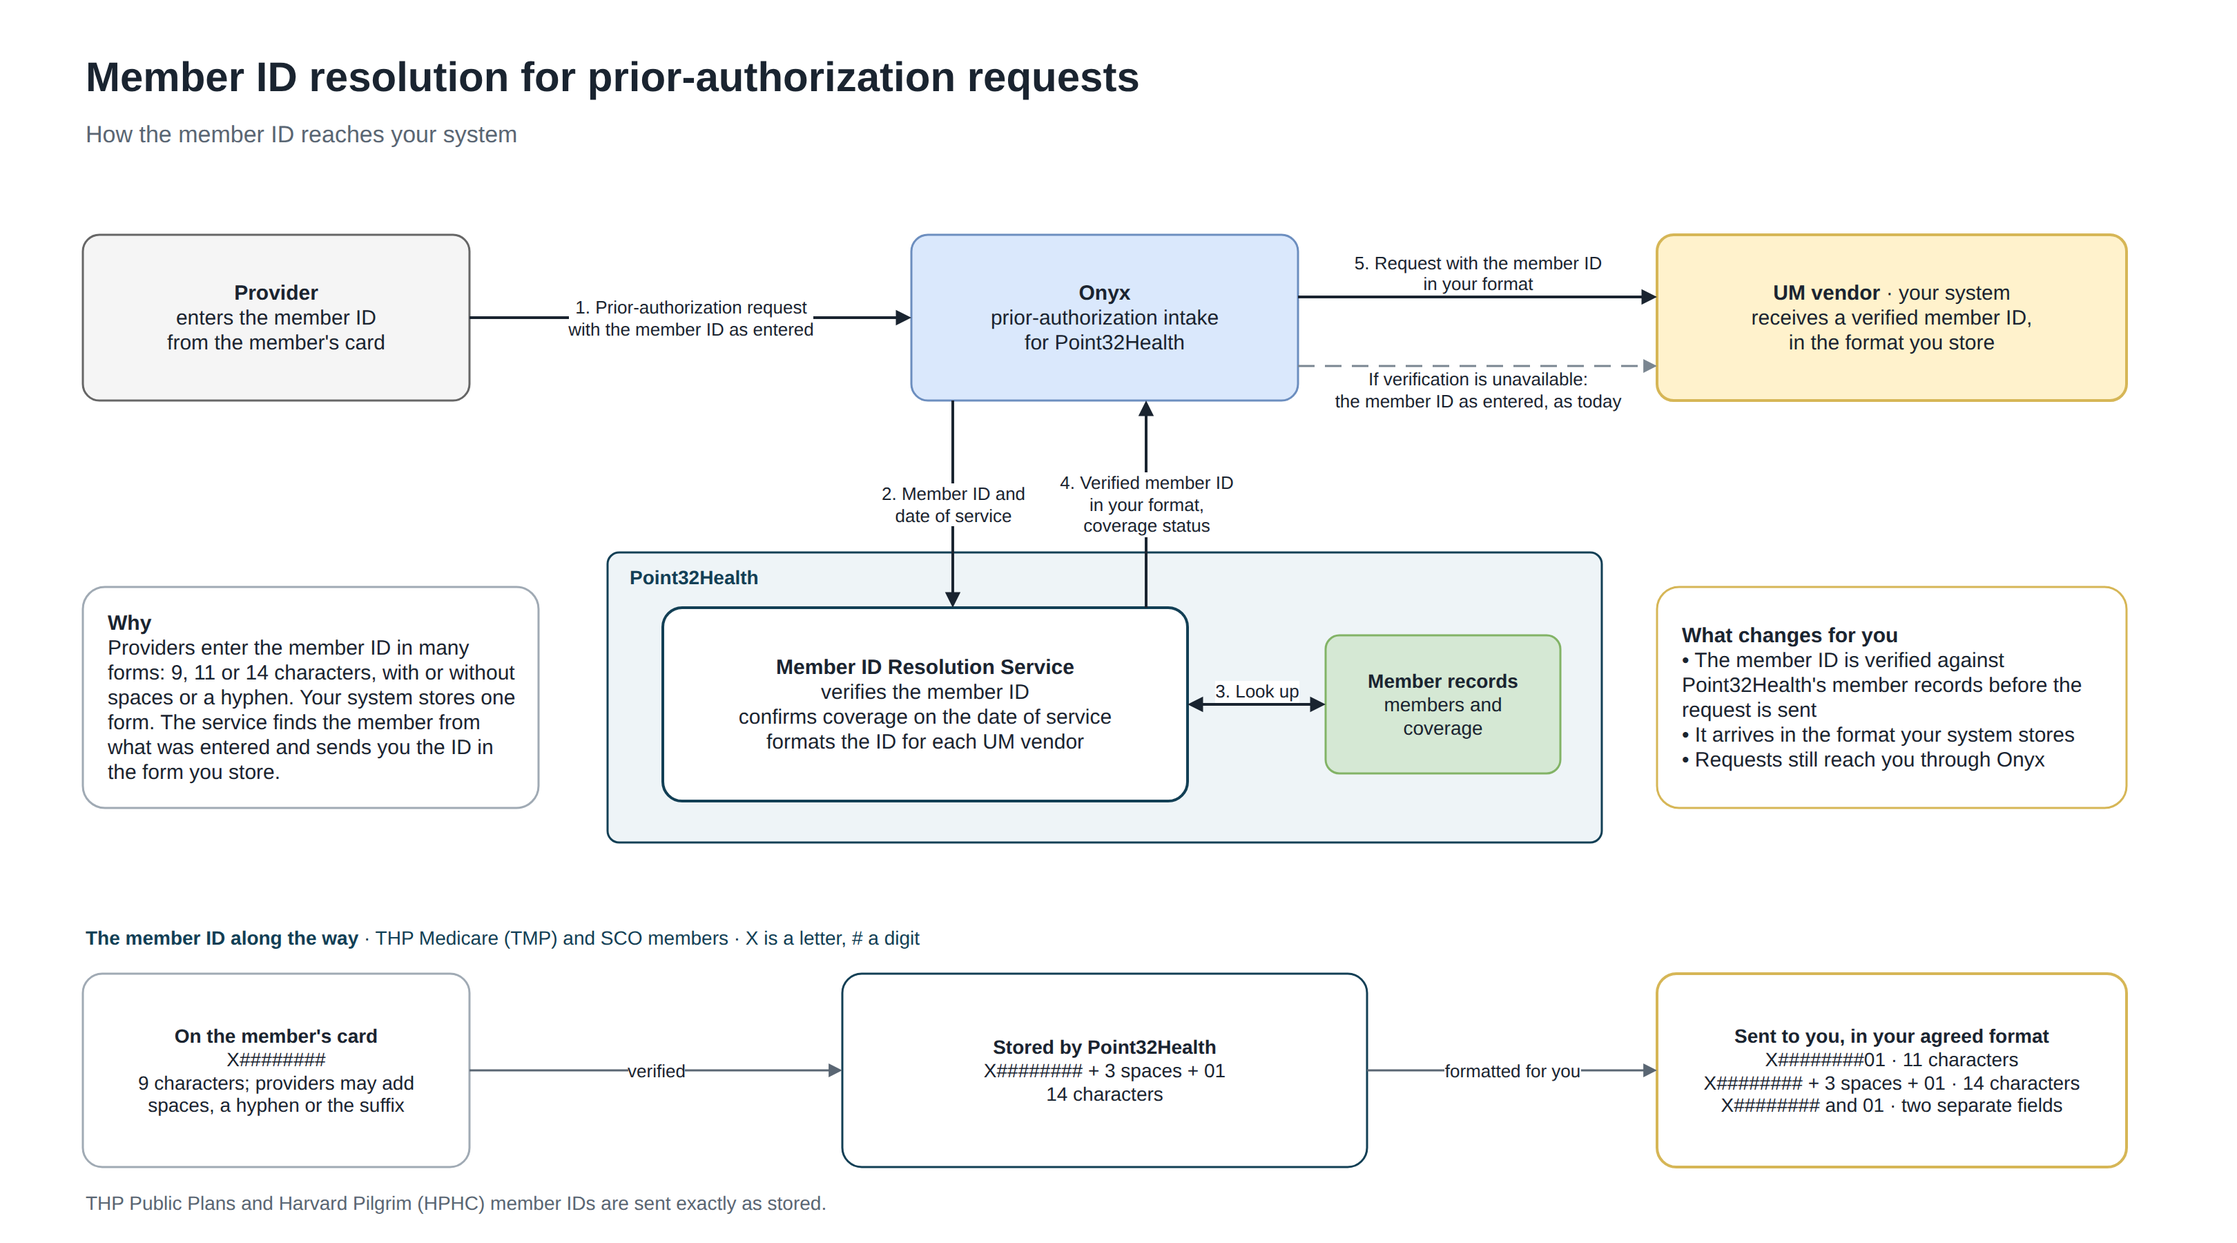
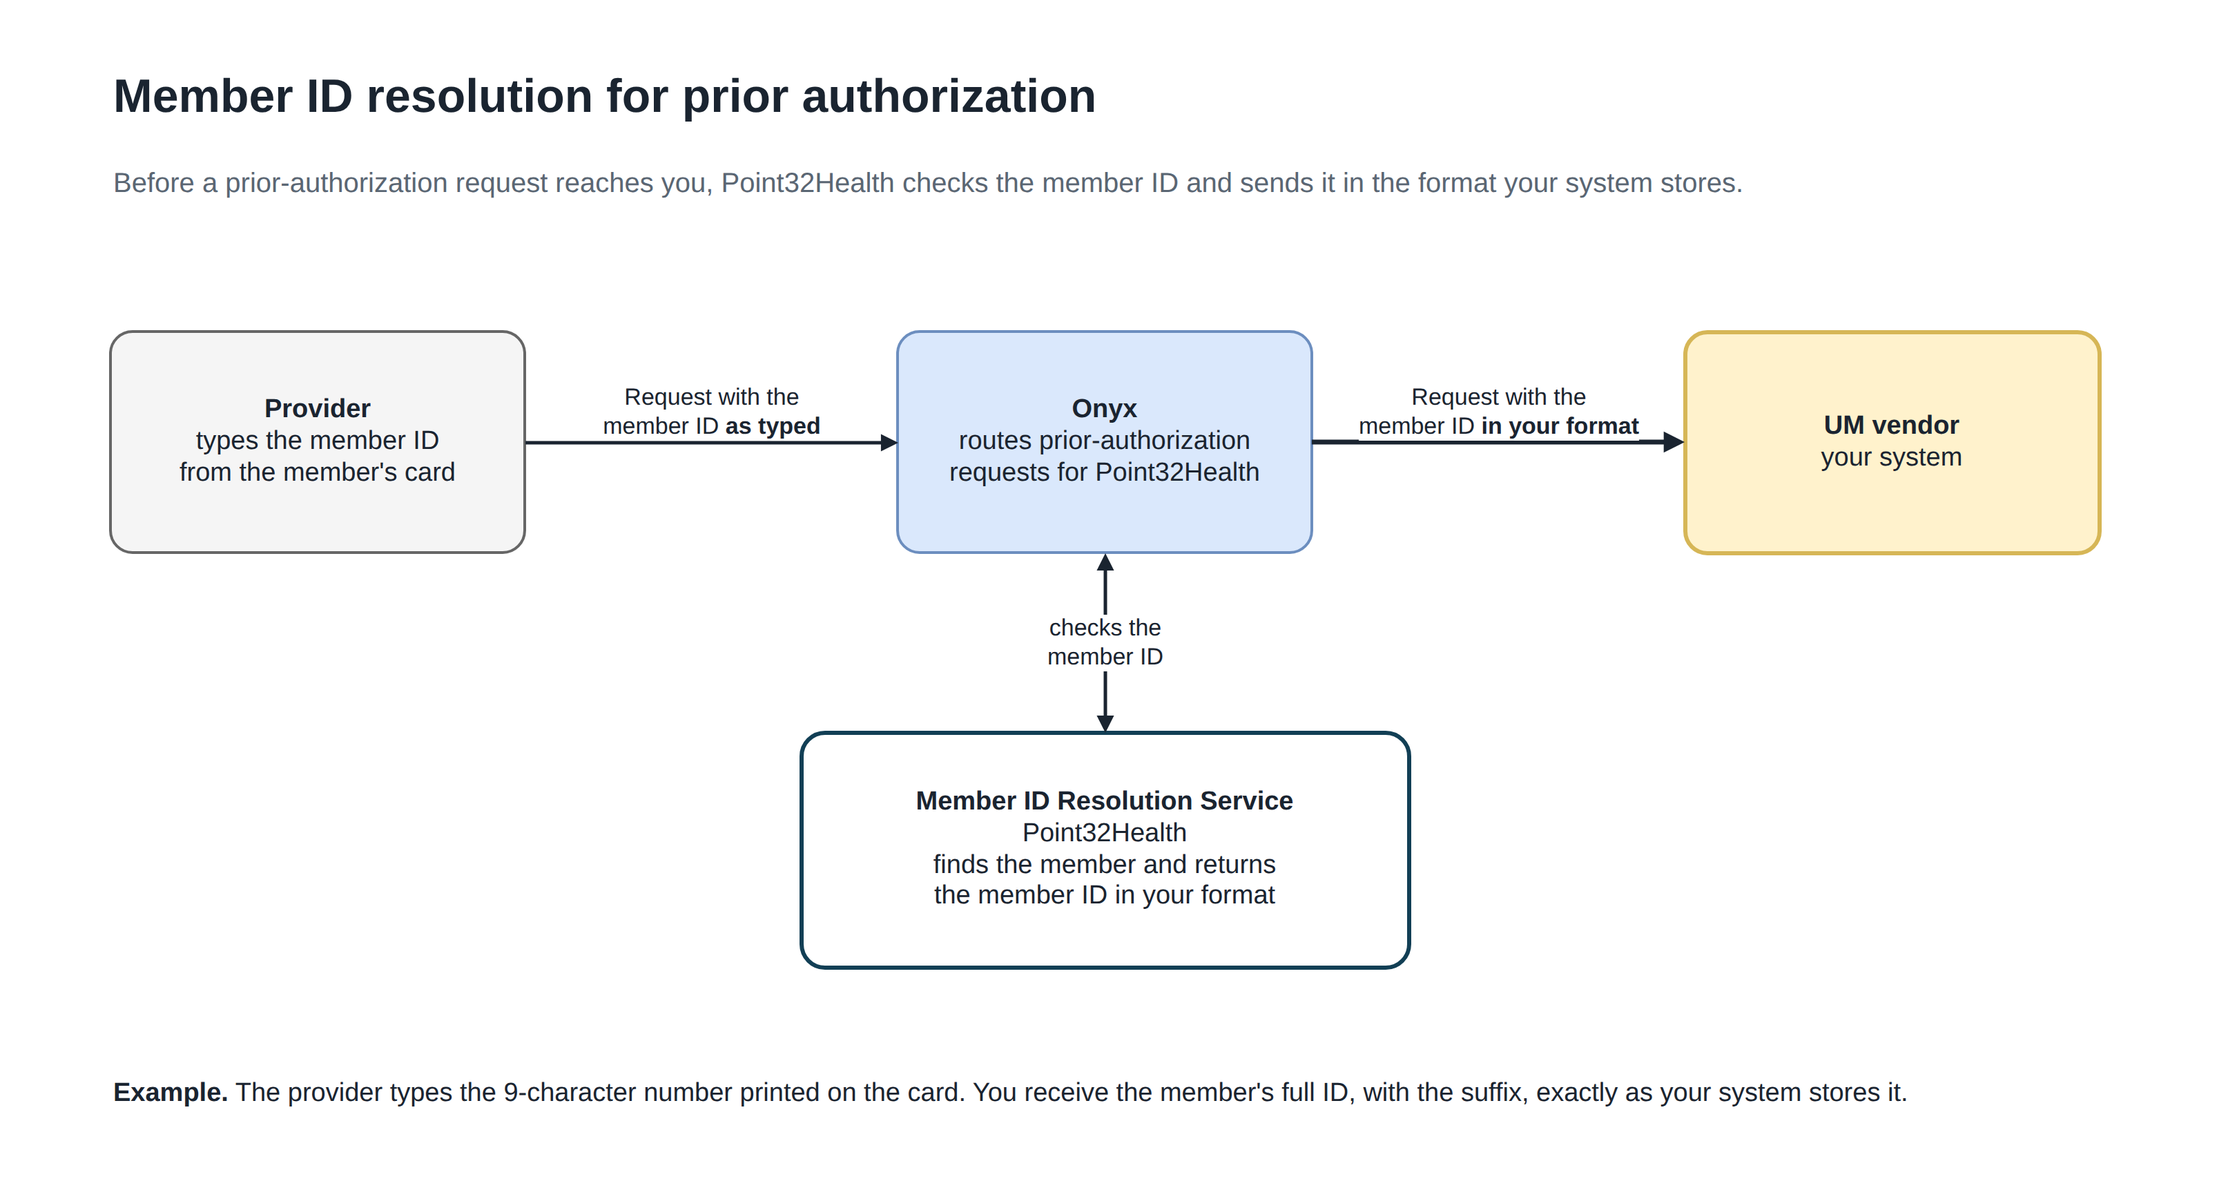
member-id-resolution-service: the vendor diagram says one thing (owner feedback 19)
One message, as the subtitle: before a prior-authorization request reaches
the vendor, Point32Health checks the member ID and sends it in the format
the vendor's system stores. Four boxes, three arrows (as typed, checks the
member ID, in your format) and one example sentence. Step numbers,
callouts, coverage status, the member records box, the masked ID strip,
the fallback line and the footnote are gone; the generator now also
refuses ID patterns. Handover, feedback log and design-src notes updated.

Claude-Session: https://claude.ai/code/session_011hPrA35BFc9RS76eDxCyUo

diff --git a/docs/member-id-resolution-service/design-src/high_level_drawio.py b/docs/member-id-resolution-service/design-src/high_level_drawio.py
@@ -1,18 +1,18 @@
 #!/usr/bin/env python3
-"""Writes ../member-id-resolution-service-high-level.drawio: the one-page diagram to present to UM vendors.
+"""Writes ../member-id-resolution-service-high-level.drawio: the one-slide diagram to present to UM vendors.
 
-Audience: a UM vendor. It shows the business flow only: the provider, Onyx, the Member ID Resolution Service,
-Point32Health's member records, the vendor, and how the member ID changes along the way. No technical detail
-(ports, versions, endpoints, codes, infrastructure), no internal system names, and no other vendor's name, so the
-same file serves every vendor. Member IDs appear only masked (X = letter, # = digit).
+One message, in plain words (owner feedback 18 and 19): before a prior-authorization request reaches the vendor,
+Point32Health checks the member ID, so the vendor receives it in the format its system stores. Four boxes, three
+arrows, one example sentence. No technical detail, no internal system names, no other vendor's name, no codes or
+ID patterns.
 
 The output is plain, uncompressed draw.io XML, which Lucidchart imports (File > Import > draw.io) as well as
-draw.io / diagrams.net. To keep that import clean, every cell sits on the default layer with absolute coordinates
-(no groups, no nested containers) and only basic shapes are used.
+draw.io / diagrams.net. Every cell sits on the default layer with absolute coordinates and only basic shapes are
+used, so the import stays clean.
 
 Run:  python3 high_level_drawio.py
-It refuses to write the file if two boxes overlap by mistake, if an id-shaped value slipped in, or if a label
-carries a word that must not reach a vendor (an internal system name, a technical detail, another vendor's name).
+It refuses to write the file if two boxes overlap, if an id-shaped value or an ID pattern slipped in, or if a label
+carries a word not meant for a vendor (an internal system name, a technical term, another vendor's name).
 """
 import os
 import re
@@ -24,17 +24,16 @@ OUT = os.path.normpath(os.path.join(HERE, '..', 'member-id-resolution-service-hi
 INK, MUTED, NAVY = '#1A2430', '#5A6673', '#123F55'
 FONT = 'fontFamily=Helvetica;'
 NOT_FOR_VENDORS = re.compile(r'\b(MMI|Master Member|Azure|API Management|APIM|Spring|Java|port|9090|yaml|REST|HTTP|'
-                             r'POST|JSON|traceId|stub|timeouts?|eviCore|Evolent|Carelon|MHK|MedHOK|Optum|fqa|pqa|prod)\b',
-                             re.IGNORECASE)
+                             r'POST|JSON|traceId|stub|timeouts?|eviCore|Evolent|Carelon|MHK|MedHOK|Optum|fqa|pqa|prod)\b'
+                             r'|#', re.IGNORECASE)
 
-cells = []      # in drawing order: earlier cells sit behind later ones
-geo = {}        # vertex id -> (x, y, w, h)
-CONTAINERS = {'p32'}
+cells = []
+geo = {}
 
 
 def box(fill, stroke, extra=''):
-    return ('rounded=1;whiteSpace=wrap;html=1;arcSize=10;' + FONT + 'fontSize=15;'
-            f'fontColor={INK};fillColor={fill};strokeColor={stroke};strokeWidth=1.5;' + extra)
+    return ('rounded=1;whiteSpace=wrap;html=1;arcSize=10;' + FONT + 'fontSize=19;'
+            f'fontColor={INK};fillColor={fill};strokeColor={stroke};strokeWidth=2;' + extra)
 
 
 def text(extra=''):
@@ -48,86 +47,42 @@ def vertex(cid, value, x, y, w, h, style):
 
 
 def rel(cid, px, py):
-    """A point on a box, absolute -> the box's relative 0..1 coordinates (draw.io exit/entry constraints)."""
     x, y, w, h = geo[cid]
     return round((px - x) / w, 4), round((py - y) / h, 4)
 
 
-def edge(cid, src, tgt, exit_pt, entry_pt, value='', color=INK, dashed=False, label_v='middle', both=False, width=2):
+def edge(cid, src, tgt, exit_pt, entry_pt, value, both=False, width=2.5, label_v='middle'):
     ex, ey = rel(src, *exit_pt)
     nx, ny = rel(tgt, *entry_pt)
     style = ('edgeStyle=orthogonalEdgeStyle;rounded=0;orthogonalLoop=1;jettySize=auto;html=1;endArrow=block;'
-             f'endFill=1;strokeColor={color};strokeWidth={width};' + FONT + f'fontSize=13;fontColor={INK};'
+             f'endFill=1;strokeColor={INK};strokeWidth={width};' + FONT + f'fontSize=17;fontColor={INK};'
              f'labelBackgroundColor=#FFFFFF;verticalAlign={label_v};'
              f'exitX={ex};exitY={ey};exitDx=0;exitDy=0;entryX={nx};entryY={ny};entryDx=0;entryDy=0;')
     if both:
         style += 'startArrow=block;startFill=1;'
-    if dashed:
-        style += 'dashed=1;dashPattern=8 5;'
     cells.append(dict(kind='e', id=cid, value=value, style=style, src=src, tgt=tgt))
 
 
-# ---------------------------------------------------------------- title
-vertex('title', 'Member ID resolution for prior-authorization requests', 60, 36, 1300, 40,
-       text('fontSize=30;fontStyle=1;'))
-vertex('subtitle', 'How the member ID reaches your system', 60, 84, 1300, 28, text(f'fontSize=17;fontColor={MUTED};'))
+vertex('title', 'Member ID resolution for prior authorization', 80, 48, 1440, 44, text('fontSize=34;fontStyle=1;'))
+vertex('message', 'Before a prior-authorization request reaches you, Point32Health checks the member ID '
+       'and sends it in the format your system stores.', 80, 100, 1440, 64, text(f'fontSize=20;fontColor={MUTED};'))
 
-# ---------------------------------------------------------------- Point32Health (drawn first, behind)
-vertex('p32', 'Point32Health', 440, 400, 720, 210,
-       'rounded=1;whiteSpace=wrap;html=1;arcSize=4;fillColor=#EEF4F7;strokeColor=#123F55;strokeWidth=1.5;'
-       + FONT + f'fontSize=14;fontStyle=1;fontColor={NAVY};align=left;verticalAlign=top;spacingLeft=14;spacingTop=8;')
-
-# ---------------------------------------------------------------- who takes part
-vertex('provider', '<b>Provider</b><br>enters the member ID<br>from the member\'s card', 60, 170, 280, 120,
+vertex('provider', '<b>Provider</b><br>types the member ID<br>from the member\'s card', 80, 240, 300, 160,
        box('#F5F5F5', '#666666'))
-vertex('onyx', '<b>Onyx</b><br>prior-authorization intake<br>for Point32Health', 660, 170, 280, 120,
+vertex('onyx', '<b>Onyx</b><br>routes prior-authorization<br>requests for Point32Health', 650, 240, 300, 160,
        box('#DAE8FC', '#6C8EBF'))
-vertex('vendor', '<b>UM vendor</b> · your system<br>receives a verified member ID,<br>in the format you store',
-       1200, 170, 340, 120, box('#FFF2CC', '#D6B656', 'strokeWidth=2;'))
-vertex('service', '<b>Member ID Resolution Service</b><br>verifies the member ID<br>confirms coverage on the date of service<br>'
-       'formats the ID for each UM vendor', 480, 440, 380, 140, box('#FFFFFF', NAVY, 'strokeWidth=2;'))
-vertex('records', '<b>Member records</b><br>members and<br>coverage', 960, 460, 170, 100, box('#D5E8D4', '#82B366', 'fontSize=14;'))
+vertex('vendor', '<b>UM vendor</b><br>your system', 1220, 240, 300, 160, box('#FFF2CC', '#D6B656', 'strokeWidth=3;'))
+vertex('service', '<b>Member ID Resolution Service</b><br>Point32Health<br>finds the member and returns<br>'
+       'the member ID in your format', 580, 530, 440, 170, box('#FFFFFF', NAVY, 'strokeWidth=3;'))
 
-# ---------------------------------------------------------------- the two callouts beside Point32Health
-callout = box('#FFFFFF', '#A0AAB4', 'fontSize=15;align=left;verticalAlign=middle;spacingLeft=16;spacingRight=12;')
-vertex('why', '<b>Why</b><br>Providers enter the member ID in many forms: 9, 11 or 14 characters, with or without '
-       'spaces or a hyphen. Your system stores one form. The service finds the member from what was entered and sends '
-       'you the ID in the form you store.',
-       60, 425, 330, 160, callout)
-vertex('changes', '<b>What changes for you</b><br>• The member ID is verified against Point32Health\'s member records '
-       'before the request is sent<br>• It arrives in the format your system stores<br>• Requests still reach you through Onyx',
-       1200, 425, 340, 160, callout.replace('#A0AAB4', '#D6B656'))
+vertex('example', '<b>Example.</b> The provider types the 9-character number printed on the card. You receive the '
+       'member\'s full ID, with the suffix, exactly as your system stores it.', 80, 760, 1440, 64,
+       text('fontSize=19;'))
 
-# ---------------------------------------------------------------- the member ID along the way
-vertex('journey', '<b>The member ID along the way</b> · THP Medicare (TMP) and SCO members · X is a letter, # a digit',
-       60, 666, 1480, 26, text(f'fontSize=14;fontColor={NAVY};'))
-vertex('j_card', '<b>On the member\'s card</b><br>X########<br>9 characters; providers may add<br>spaces, a hyphen or the suffix',
-       60, 705, 280, 140, box('#FFFFFF', '#A0AAB4', 'fontSize=14;'))
-vertex('j_stored', '<b>Stored by Point32Health</b><br>X######## + 3 spaces + 01<br>14 characters',
-       610, 705, 380, 140, box('#FFFFFF', NAVY, 'fontSize=14;'))
-vertex('j_sent', '<b>Sent to you, in your agreed format</b><br>X########01 · 11 characters<br>'
-       'X######## + 3 spaces + 01 · 14 characters<br>X######## and 01 · two separate fields',
-       1200, 705, 340, 140, box('#FFFFFF', '#D6B656', 'fontSize=14;strokeWidth=2;'))
-vertex('footnote', 'THP Public Plans and Harvard Pilgrim (HPHC) member IDs are sent exactly as stored.',
-       60, 858, 1480, 26, text(f'fontSize=14;fontColor={MUTED};'))
-
-# ---------------------------------------------------------------- arrows (drawn last, on top)
-edge('e1', 'provider', 'onyx', (340, 230), (660, 230), '1. Prior-authorization request<br>with the member ID as entered')
-edge('e2', 'onyx', 'service', (690, 290), (690, 440), '2. Member ID and<br>date of service')
-edge('e3', 'service', 'records', (860, 510), (960, 510), '3. Look up', label_v='bottom', both=True)
-edge('e4', 'service', 'onyx', (830, 440), (830, 290), '4. Verified member ID<br>in your format,<br>coverage status')
-edge('e5', 'onyx', 'vendor', (940, 215), (1200, 215), '5. Request with the member ID<br>in your format', label_v='bottom')
-edge('e_fallback', 'onyx', 'vendor', (940, 265), (1200, 265), 'If verification is unavailable:<br>the member ID as entered, as today',
-     color='#7A8691', dashed=True, label_v='top', width=1.5)
-edge('j1', 'j_card', 'j_stored', (340, 775), (610, 775), 'verified', color=MUTED, width=1.5)
-edge('j2', 'j_stored', 'j_sent', (990, 775), (1200, 775), 'formatted for you', color=MUTED, width=1.5)
-
-
-# ---------------------------------------------------------------- checks, then write
-def inside(inner, outer):
-    ix, iy, iw, ih = geo[inner]
-    ox, oy, ow, oh = geo[outer]
-    return ix >= ox and iy >= oy and ix + iw <= ox + ow and iy + ih <= oy + oh
+edge('typed', 'provider', 'onyx', (380, 320), (650, 320), 'Request with the<br>member ID <b>as typed</b>', label_v='bottom')
+edge('check', 'onyx', 'service', (800, 400), (800, 530), 'checks the<br>member ID', both=True)
+edge('formatted', 'onyx', 'vendor', (950, 320), (1220, 320), 'Request with the<br>member ID <b>in your format</b>', width=3.5,
+     label_v='bottom')
 
 
 def overlap(a, b):
@@ -139,9 +94,8 @@ def overlap(a, b):
 ids = list(geo)
 for i, a in enumerate(ids):
     for b in ids[i + 1:]:
-        if overlap(a, b) and not ((a in CONTAINERS and inside(b, a)) or (b in CONTAINERS and inside(a, b))):
+        if overlap(a, b):
             raise SystemExit(f'boxes overlap: {a} and {b}')
-
 for c in cells:
     hit = NOT_FOR_VENDORS.search(c['value'])
     if hit:
@@ -150,9 +104,9 @@ for c in cells:
 mxfile = ET.Element('mxfile', host='app.diagrams.net', modified='2026-10-05T00:00:00.000Z',
                     agent='high_level_drawio.py', version='24.7.17', type='device')
 diagram = ET.SubElement(mxfile, 'diagram', id='mirs-vendor-overview', name='Member ID resolution')
-model = ET.SubElement(diagram, 'mxGraphModel', dx='1600', dy='900', grid='1', gridSize='10', guides='1',
+model = ET.SubElement(diagram, 'mxGraphModel', dx='1600', dy='860', grid='1', gridSize='10', guides='1',
                       tooltips='1', connect='1', arrows='1', fold='1', page='1', pageScale='1',
-                      pageWidth='1600', pageHeight='900', math='0', shadow='0')
+                      pageWidth='1600', pageHeight='860', math='0', shadow='0')
 root = ET.SubElement(model, 'root')
 ET.SubElement(root, 'mxCell', id='0')
 ET.SubElement(root, 'mxCell', id='1', parent='0')
@@ -168,9 +122,8 @@ for c in cells:
 ET.indent(mxfile, space='  ')
 xml = ET.tostring(mxfile, encoding='unicode') + '\n'
 
-# a member id is never written: no letter + 8 digits, no run of 9 or 11 digits
 if re.search(r'[A-Za-z]\d{8}(?!\d)|(?<!\d)\d{9}(?!\d)|(?<!\d)\d{11}(?!\d)', xml):
-    raise SystemExit('an id-shaped value is in the diagram; mask it')
+    raise SystemExit('an id-shaped value is in the diagram')
 
 with open(OUT, 'w', encoding='utf-8') as f:
     f.write(xml)

diff --git a/docs/member-id-resolution-service/HANDOVER.md b/docs/member-id-resolution-service/HANDOVER.md
@@ -27,8 +27,8 @@ date of service. No database, no state, no security code (Azure API Management i
   to that URL after changes; a new session must `read` the URL once before it can publish to it).
 - Vendor diagram: `docs/member-id-resolution-service/member-id-resolution-service-high-level.drawio` (draw.io XML,
   imports into Lucidchart; PNG preview beside it), generated by `design-src/high_level_drawio.py`. It is for UM
-  vendors: business flow only (feedback 18).
-- Owner feedback and decisions: `docs/member-id-resolution-service/feedback-log.md` (18 numbered entries so far).
+  vendors: one message in plain words (feedback 18, 19).
+- Owner feedback and decisions: `docs/member-id-resolution-service/feedback-log.md` (19 numbered entries so far).
 
 ## The owner's standing rules (their words, condensed)
 
@@ -44,8 +44,9 @@ date of service. No database, no state, no security code (Azure API Management i
   (surrounding whitespace removed). "The service is just passing through to MMI. Don't try to be over smart."
 - Nothing a caller receives names MMI (feedback 16): no field name, error code, message text, URL or Swagger text.
   The bodies say "the member lookup"; `traceId` and `sourceMessage` are the outward names. Logs may say MMI.
-- Anything meant for vendors (feedback 18): business flow only. No technical detail (port, versions, endpoints,
-  codes, infrastructure), no internal system names (MMI is "member records"), no other vendor's name.
+- Anything meant for vendors (feedback 18, 19): one message in plain words, business flow only. No technical detail
+  (port, versions, endpoints, codes, infrastructure), no internal system names, no other vendor's name, no codes or
+  ID patterns.
 - Ask the owner when unsure; do not assume.
 
 ## Current behaviour (as of feedback 15, 2026-10-04)

diff --git a/docs/member-id-resolution-service/design-src/README.md b/docs/member-id-resolution-service/design-src/README.md
@@ -9,9 +9,9 @@
 - `part3.html`: only the id-grid figure is used (captions are rewritten by the script).
 - `artifact_v2.html`: the assembled fragment that is published as the claude.ai artifact
   (`https://claude.ai/artifact/A6PfmrLch1RronSwsDQKRp`); republish it to that URL after a change.
-- `high_level_drawio.py`: writes `../member-id-resolution-service-high-level.drawio`, the one-page diagram to present
-  to UM vendors (feedback 18): business flow only, no technical detail, no internal system names, no other vendor's
-  name. Uncompressed draw.io XML: imports into Lucidchart through File > Import > draw.io, opens in draw.io. Plain
+- `high_level_drawio.py`: writes `../member-id-resolution-service-high-level.drawio`, the one-slide diagram to present
+  to UM vendors (feedback 18, 19): one message in plain words, business flow only, no technical detail, no internal
+  system names, no other vendor's name, no codes or ID patterns. Uncompressed draw.io XML: imports into Lucidchart through File > Import > draw.io, opens in draw.io. Plain
   shapes on one layer with absolute coordinates, so the import stays clean. Run `python3 high_level_drawio.py`; it
   refuses to write when two boxes overlap, an id-shaped value slipped in, or a label carries a word not meant for a
   vendor (an internal system name, a technical term, another vendor's name). Once someone edits the diagram in Lucid or draw.io,

diff --git a/docs/member-id-resolution-service/feedback-log.md b/docs/member-id-resolution-service/feedback-log.md
@@ -345,3 +345,14 @@ See the conversation; answers will be appended here.
   vendor.
 - The generator now refuses to write a label carrying an internal system name, a technical term or a vendor's name.
   The technical view is in the design document; the first diagram stays in the git history (commit 1e74848).
+
+## Feedback 19 (2026-10-05): be clear
+
+- The owner, on the vendor overview: what does this diagram mean; why is it not clear.
+- Applied: the diagram now says one thing, written as its subtitle: before a prior-authorization request reaches the
+  vendor, Point32Health checks the member ID and sends it in the format the vendor's system stores. Four boxes
+  (provider, Onyx, the vendor, the Member ID Resolution Service), three arrows (request with the member ID as typed,
+  Onyx checks the member ID, request with the member ID in your format) and one example sentence.
+- Removed: the step numbers, the two callouts, the coverage status, the member records box, the strip of masked ID
+  patterns, the dashed fallback line and the footnote.
+- Rule: vendor material says one thing in plain words, with no codes or ID patterns.
